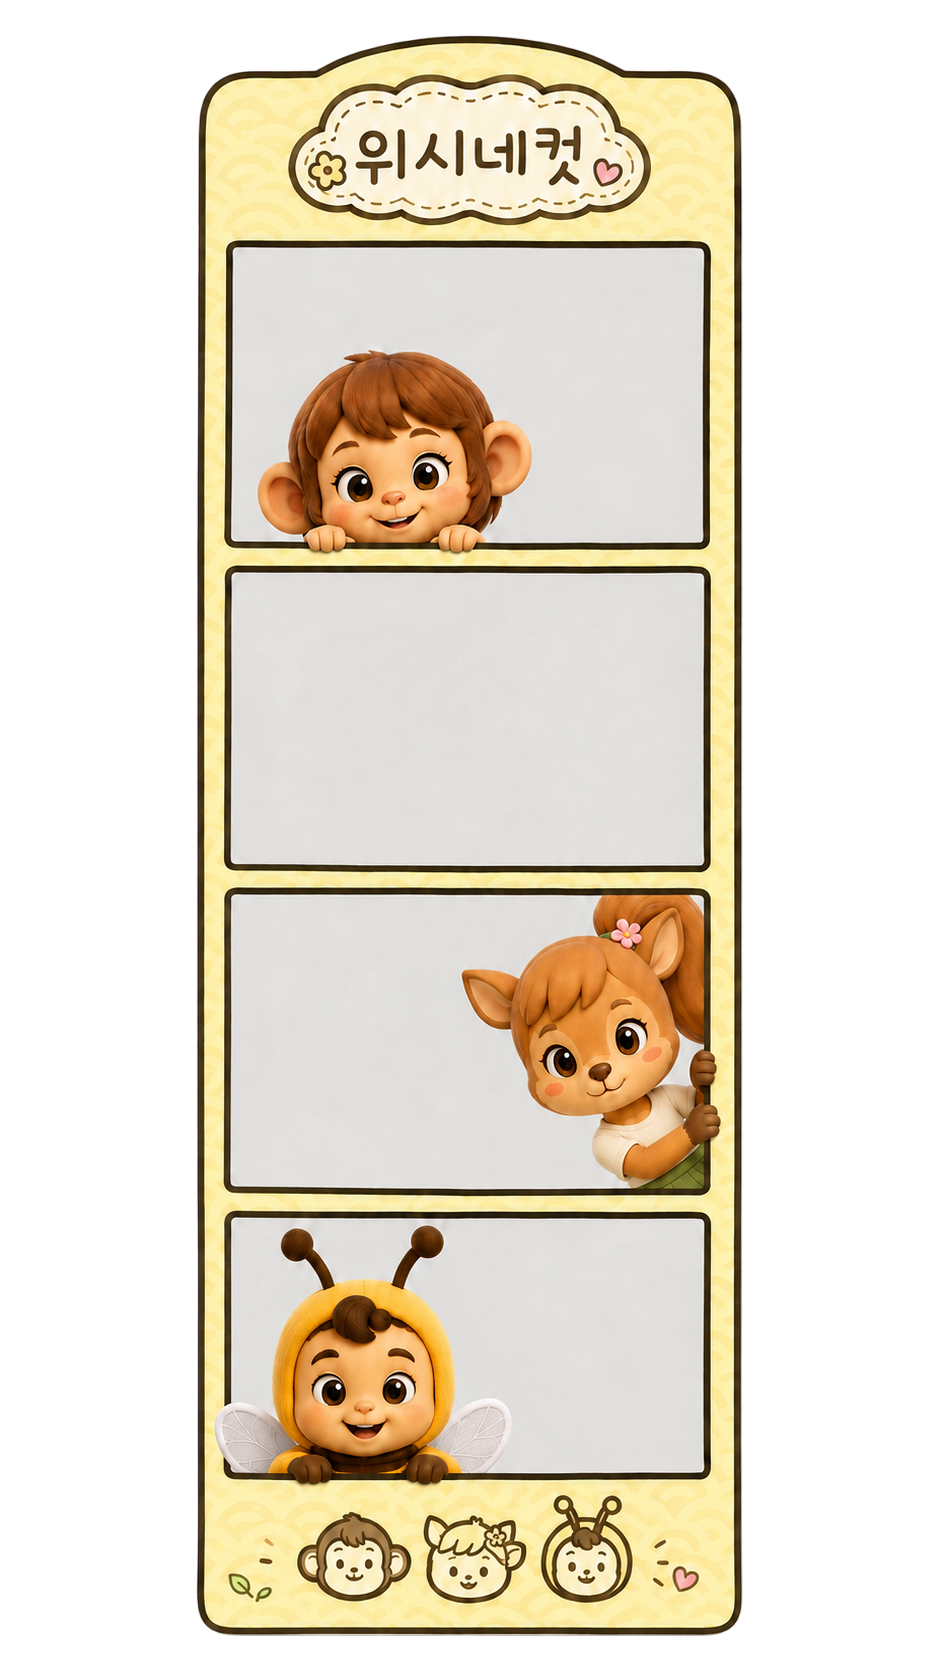
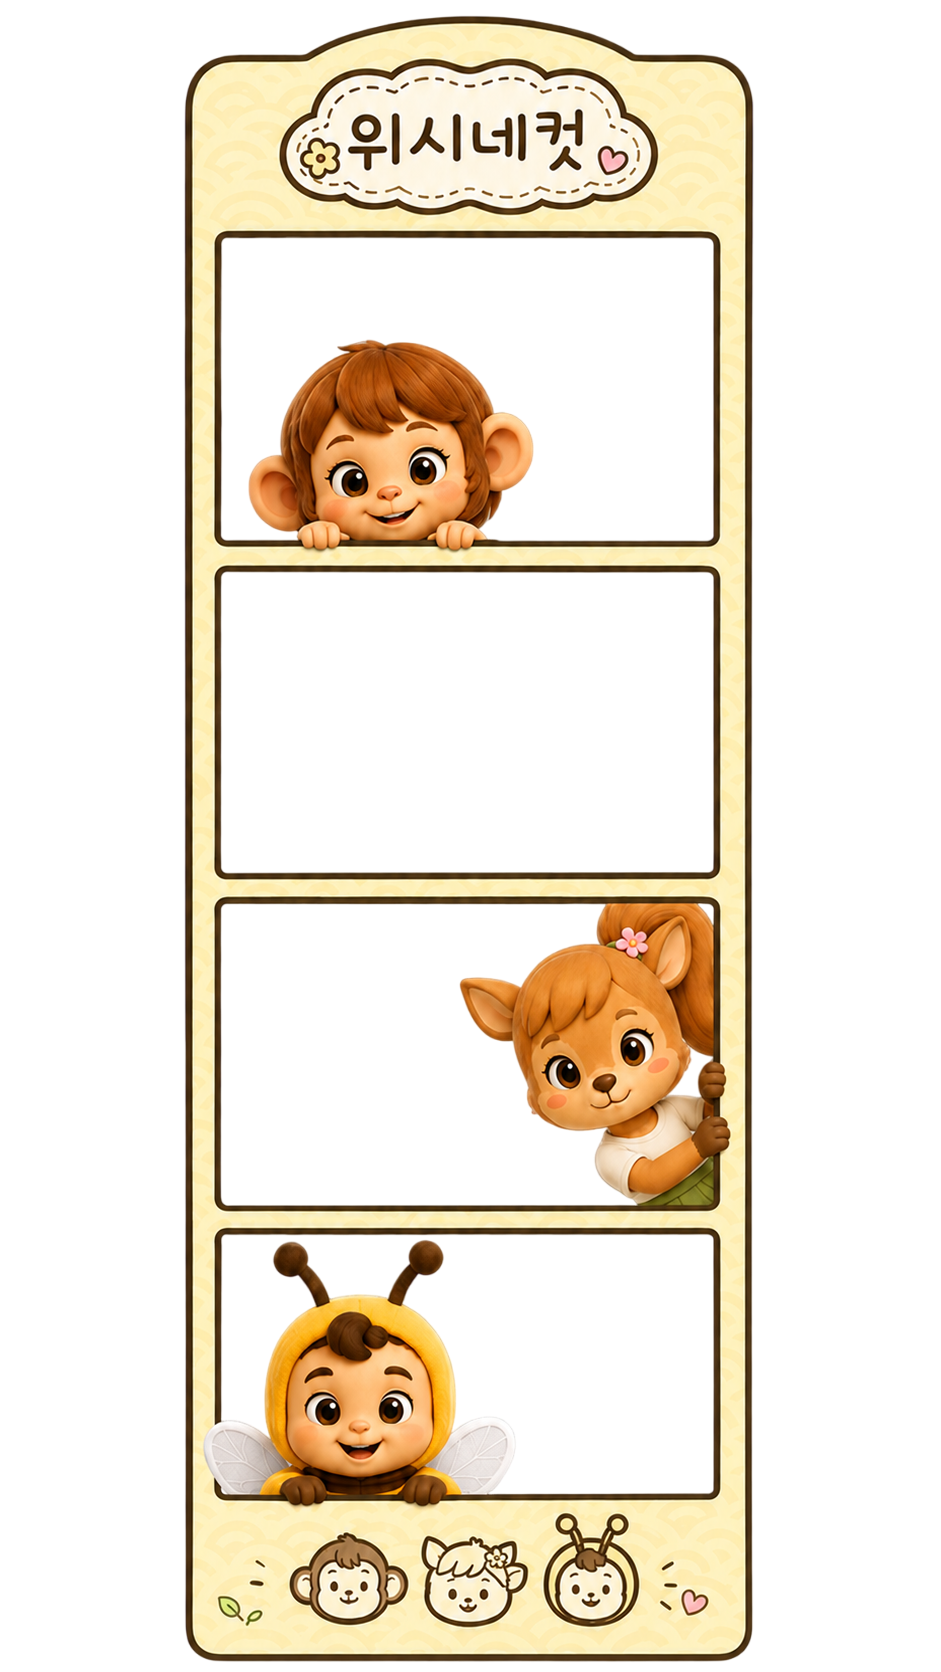
[S14P31E103-864] FE/chore: 포토부스 프레임 변경

diff --git a/frontend/apps/game/src/scenes/photo-booth/frames.ts b/frontend/apps/game/src/scenes/photo-booth/frames.ts
@@ -50,10 +50,10 @@ export const PHOTO_BOOTH_FRAMES: PhotoFrame[] = [
     overlayKey: 'photo-booth-frame-3',
     overlayPath: 'images/photo-booth/frames/frame3.png',
     slots: [
-      { xRatio: 0.2455, yRatio: 0.1477, wRatio: 0.5048, hRatio: 0.1776 },
-      { xRatio: 0.2455, yRatio: 0.3421, wRatio: 0.5027, hRatio: 0.1758 },
-      { xRatio: 0.2444, yRatio: 0.5347, wRatio: 0.5069, hRatio: 0.177 },
-      { xRatio: 0.2455, yRatio: 0.7279, wRatio: 0.5037, hRatio: 0.1531 },
+      { xRatio: 0.2359, yRatio: 0.1423, wRatio: 0.5218, hRatio: 0.1806 },
+      { xRatio: 0.2359, yRatio: 0.3421, wRatio: 0.5218, hRatio: 0.1794 },
+      { xRatio: 0.2349, yRatio: 0.5407, wRatio: 0.5228, hRatio: 0.18 },
+      { xRatio: 0.2359, yRatio: 0.7386, wRatio: 0.5218, hRatio: 0.1549 },
     ],
   },
   {
@@ -63,10 +63,10 @@ export const PHOTO_BOOTH_FRAMES: PhotoFrame[] = [
     overlayKey: 'photo-booth-frame-4',
     overlayPath: 'images/photo-booth/frames/frame4.png',
     slots: [
-      { xRatio: 0.2295, yRatio: 0.1495, wRatio: 0.5409, hRatio: 0.1824 },
-      { xRatio: 0.2317, yRatio: 0.3451, wRatio: 0.5388, hRatio: 0.183 },
-      { xRatio: 0.2317, yRatio: 0.5419, wRatio: 0.5388, hRatio: 0.1705 },
-      { xRatio: 0.2317, yRatio: 0.7255, wRatio: 0.5388, hRatio: 0.1675 },
+      { xRatio: 0.2253, yRatio: 0.1489, wRatio: 0.5494, hRatio: 0.1848 },
+      { xRatio: 0.2274, yRatio: 0.3481, wRatio: 0.5473, hRatio: 0.186 },
+      { xRatio: 0.2274, yRatio: 0.5484, wRatio: 0.5473, hRatio: 0.174 },
+      { xRatio: 0.2274, yRatio: 0.7356, wRatio: 0.5473, hRatio: 0.1621 },
     ],
   },
 ]